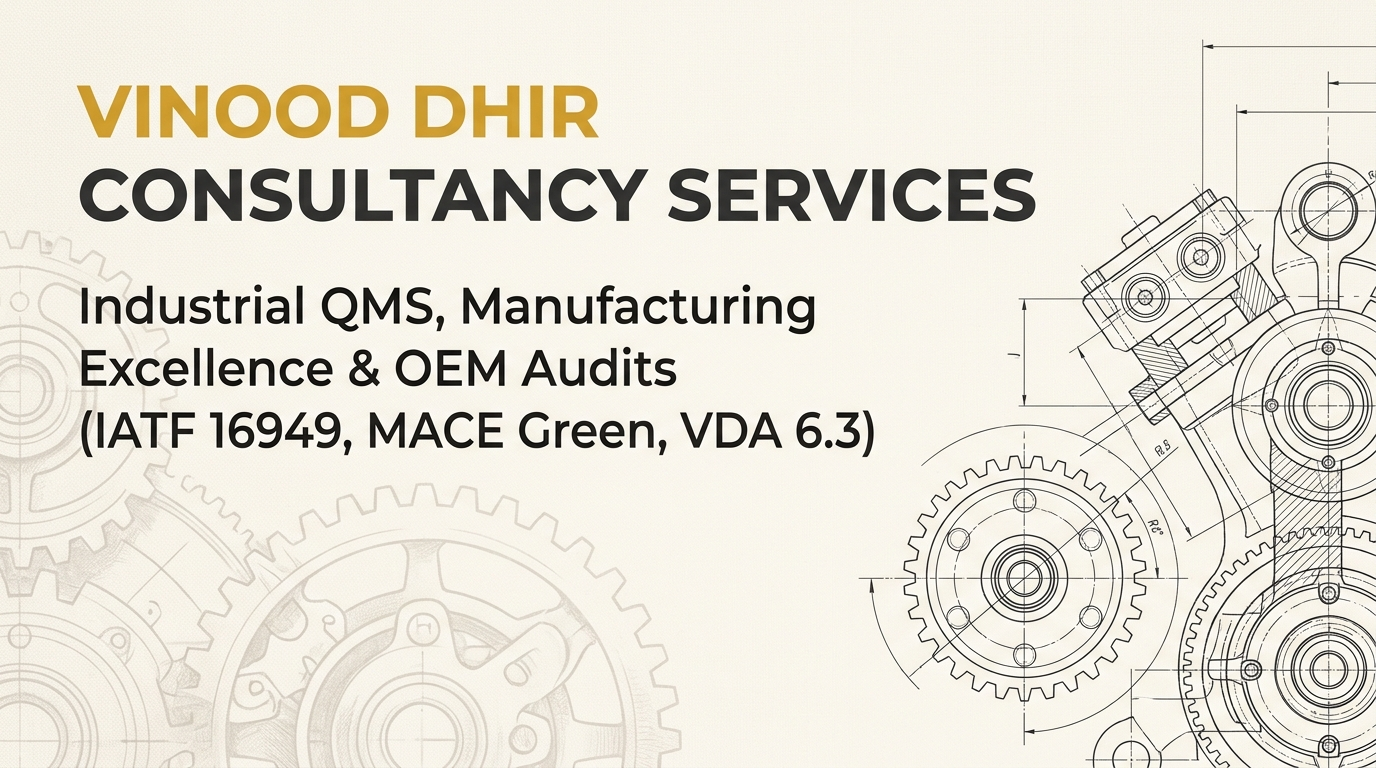
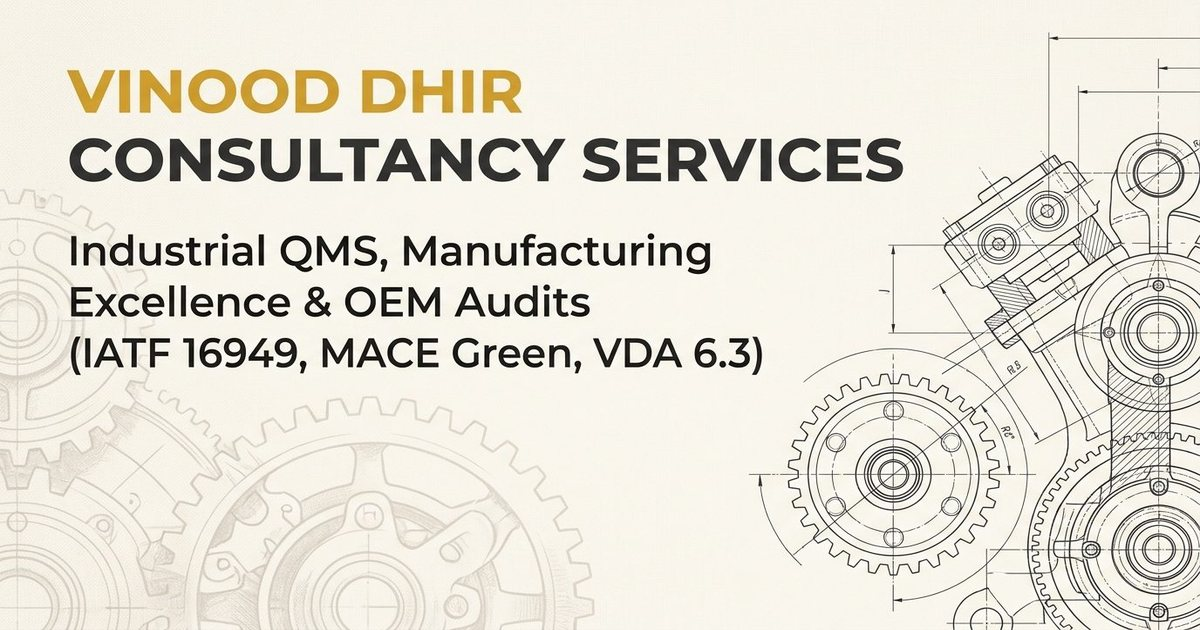
fix(seo): optimize og-preview image to 1200x630 and 147KB for WhatsApp compliance

diff --git a/index.html b/index.html
@@ -15,8 +15,8 @@
     <meta property="og:image" content="https://vinood-dhir.vercel.app/og-preview.jpg" />
     <meta property="og:image:secure_url" content="https://vinood-dhir.vercel.app/og-preview.jpg" />
     <meta property="og:image:type" content="image/jpeg" />
-    <meta property="og:image:width" content="1280" />
-    <meta property="og:image:height" content="720" />
+    <meta property="og:image:width" content="1200" />
+    <meta property="og:image:height" content="630" />
     <meta property="og:image:alt" content="Vinood Dhir Consultancy Services - Industrial QMS & Manufacturing Excellence" />
 
     <!-- Twitter / X Social Preview -->
